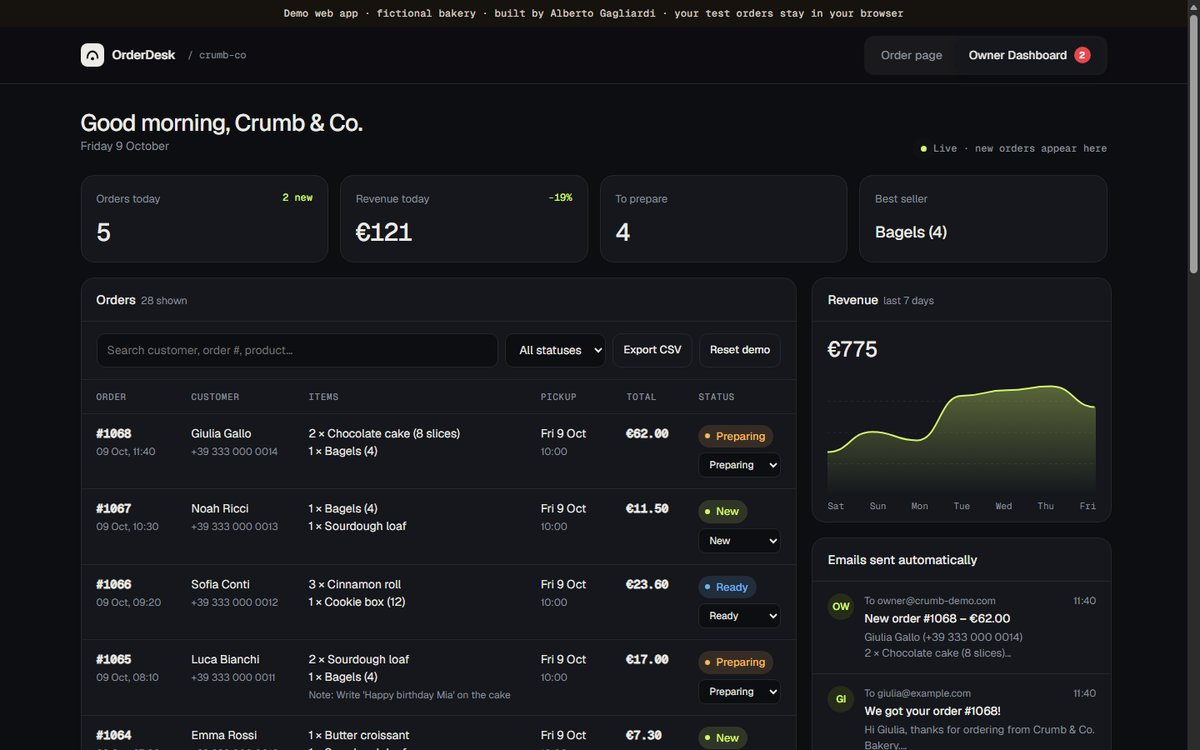
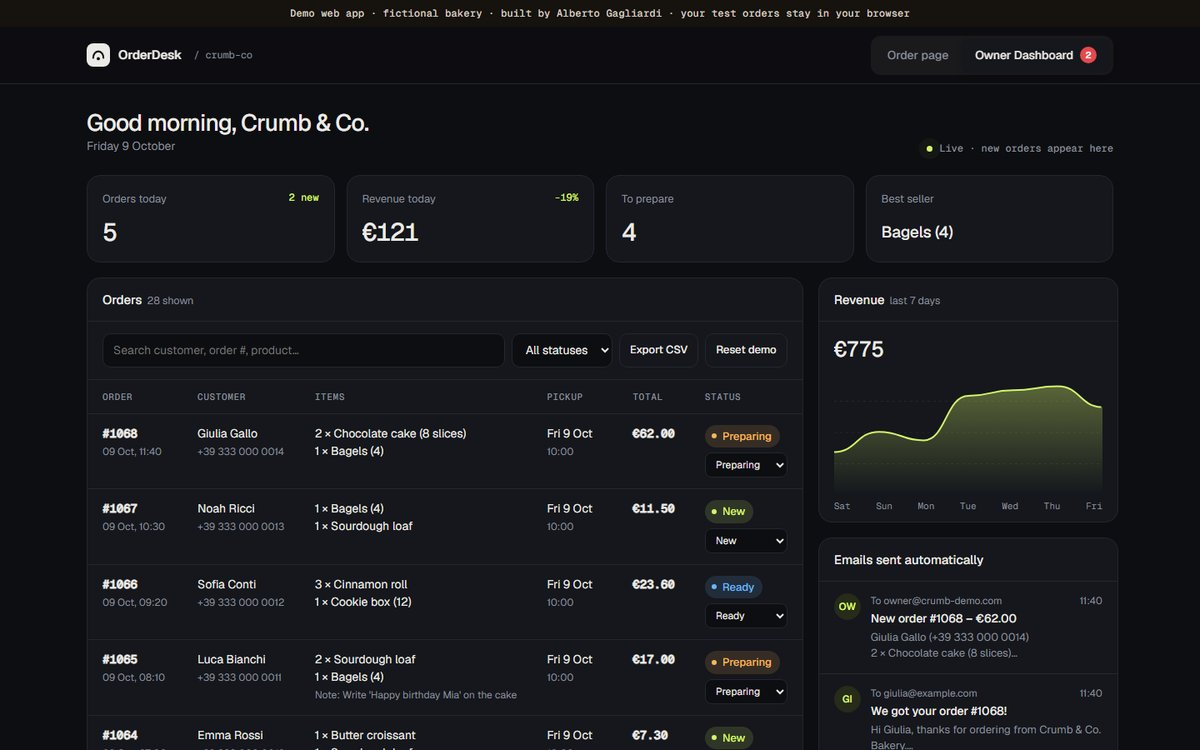
Update starting price

diff --git a/index.html b/index.html
@@ -152,7 +152,7 @@ footer{display:flex;justify-content:space-between;gap:20px;flex-wrap:wrap;paddin
 <section class="svc" id="services">
  <div class="sh"><h2 class="rv">What I<br>build</h2><p>Two kinds of projects, often together: the site people see, and the tools that run behind it.</p></div>
  <div class="cols">
-  <div class="col"><span class="mono">01 · Websites</span><h3>Websites &amp; landing pages</h3><ul><li>One-page sites and sites up to 10 pages</li><li>Custom design, no templates</li><li>Contact, booking and quote forms to your inbox</li><li>Mobile-first, fast, basic SEO</li><li>Free hosting on your own account</li></ul><div class="price"><span>Starting at</span><b>$60</b></div></div>
+  <div class="col"><span class="mono">01 · Websites</span><h3>Websites &amp; landing pages</h3><ul><li>One-page sites and sites up to 10 pages</li><li>Custom design, no templates</li><li>Contact, booking and quote forms to your inbox</li><li>Mobile-first, fast, basic SEO</li><li>Free hosting on your own account</li></ul><div class="price"><span>Starting at</span><b>$80</b></div></div>
   <div class="col"><span class="mono">02 · Web apps</span><h3>Web apps &amp; automations</h3><ul><li>Order and booking systems with email alerts</li><li>Simple management tools: clients, orders, stock</li><li>Dashboards and reports from Google Sheets</li><li>Runs on free Google tools, no subscriptions</li><li>Short written guide, it's all yours</li></ul><div class="price"><span>Starting at</span><b>$50</b></div></div>
  </div>
 </section>
